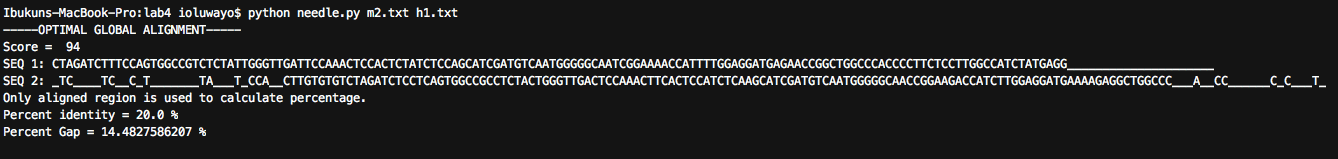
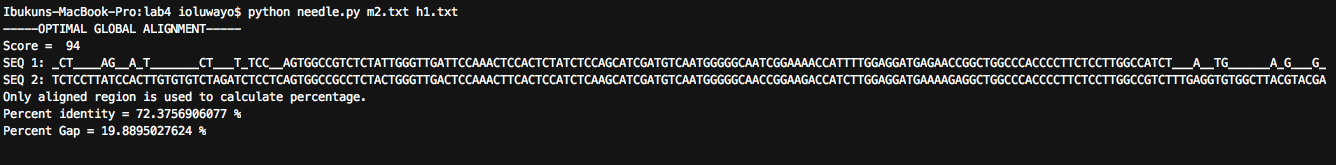
Updated readme

Changed region(s): [[0.0, 0.327, 1.0, 0.8553], [0.0, 0.0252, 0.3683, 0.2264], [0.0, 0.2516, 0.0614, 0.327]]

diff --git a/LAB4/needle.py b/LAB4/needle.py
@@ -64,19 +64,20 @@ def buildAlignment(seq1, seq2, direction):
                 align2+="_"
             l1+=1
             l2+=1
-        elif direction[i] == "V":
-            align1+="_"
+        elif direction[i] == "H":
             if l2 < len(seq2):
                 align2+=seq2[l2]
+            if l1>=0:
+                align1 += "_"
             l2+=1
         else:
-            if l1<len(seq1):
+            if l1< len(seq1):
                 align1+=seq1[l1]
-            align2+="_"
+            if l1>=0:
+                align2+="_"
             l1+=1
+
     return align1,align2
-
-
 
 def buildDirectionalString(matrix,gapScore):
     """
